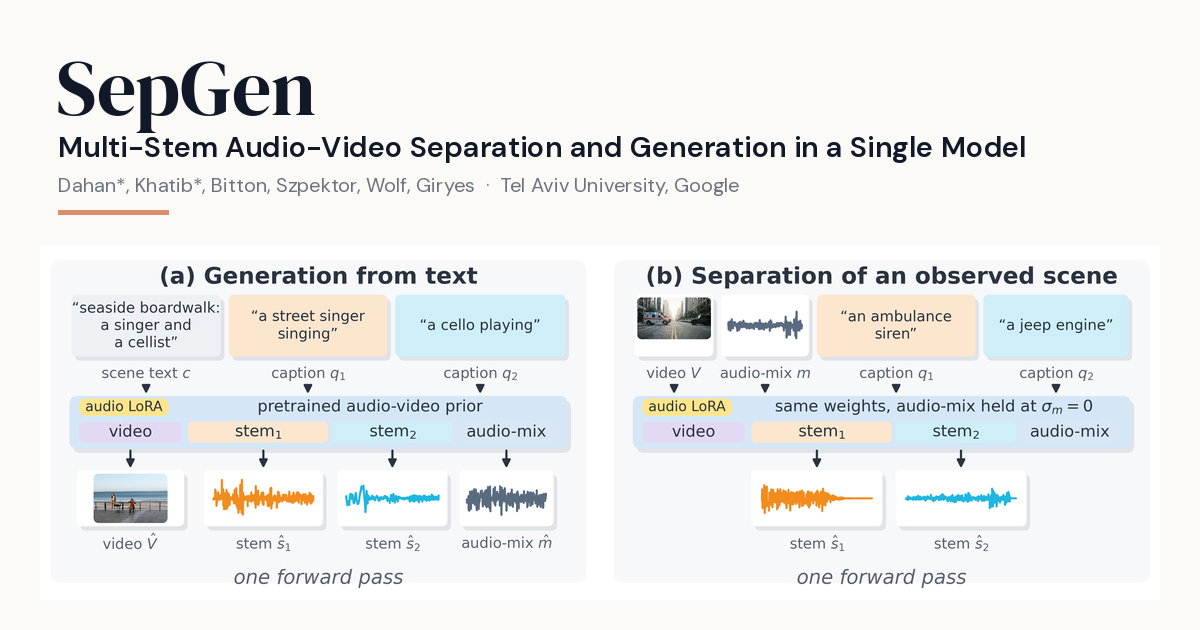
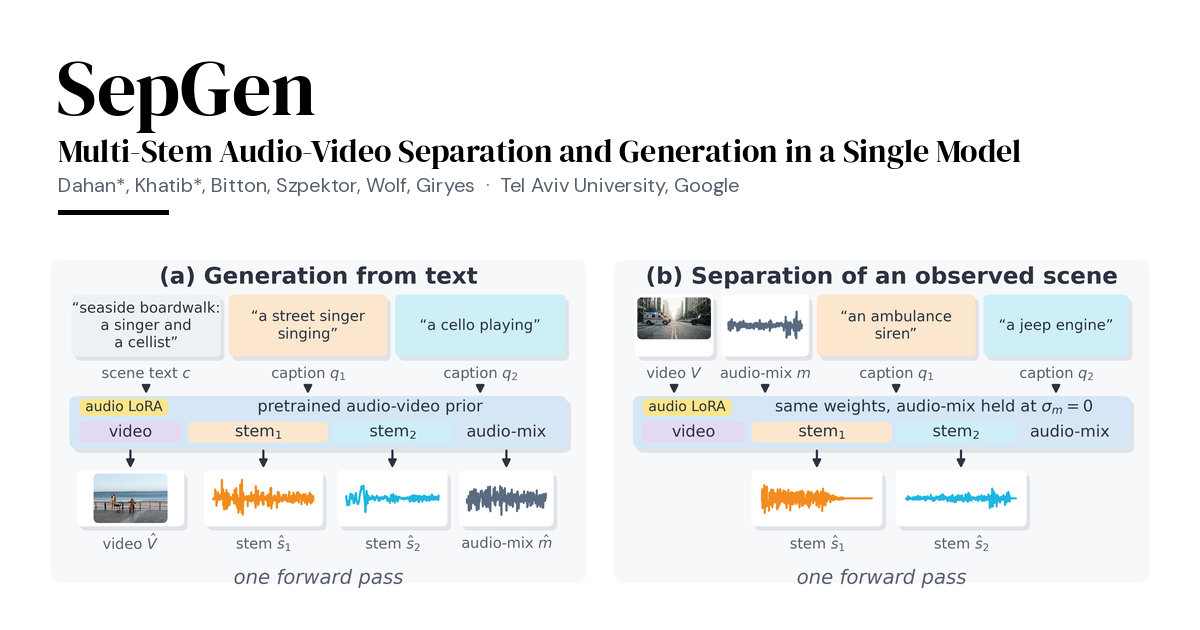
White theme: black text on white, plain serif title and subtitle, white social preview

Changed region(s): [[0.0308, 0.0905, 0.8633, 0.2714], [0.0308, 0.3317, 0.1542, 0.3619]]

diff --git a/index.html b/index.html
@@ -208,7 +208,7 @@ footer ul{padding-left:1.1rem;margin:.5rem 0}
 .review-bar textarea{width:100%;height:5rem;font:.7rem monospace}
 .veto{display:flex;align-items:center;gap:.4rem;font-size:.75rem;color:#7f1d1d;font-weight:600}
 .clip.vetoed{opacity:.35}
-h1,h2,h3,.brand,.hero h1{font-family:'DM Serif Display',Georgia,serif;font-weight:400}
+h1,h2,h3,.brand,.hero h1,.hero .sub{font-family:'DM Serif Display',Georgia,serif;font-weight:400}
 .hero .tldr{font-size:1rem;color:var(--gray-700);margin:.9rem 0 0;max-width:34rem;line-height:1.5}
 .herowave{display:block;width:100%;max-width:30rem;height:auto;margin:.4rem 0 .2rem;overflow:visible}
 .herowave .w{fill:none;stroke-width:3;stroke-linecap:round}
@@ -274,6 +274,17 @@ table{font-variant-numeric:tabular-nums}
 .stats .stat{border-top:3px solid var(--mix)}
 .stats .stat:nth-child(1){border-top-color:var(--s1)}
 .stats .stat:nth-child(2){border-top-color:var(--s2)}
+
+:root{--gray-900:#000;--gray-700:#1f2328;--gray-600:#3b4048;--gray-500:#57606a;--gray-400:#6e7781;--gray-50:#f6f8fa;--hl:#eaeef2}
+body{background:#fff;color:#000}
+nav{background:#fff}
+.hero h1 span{background:none;padding:0}
+.av-card,.tblwrap,.anim{background:#fff;box-shadow:none;border:1px solid #d8dee4}
+.av-card:hover{box-shadow:0 4px 16px rgba(0,0,0,.06)}
+#overview .fig{box-shadow:none;border:1px solid #d8dee4}
+.listen,details .box{background:#f6f8fa;border-color:#d8dee4}
+tr.ours td{background:#f6f8fa}
+.btnrow .btn{background:#000}
 </style>
 </head>
 <body>
